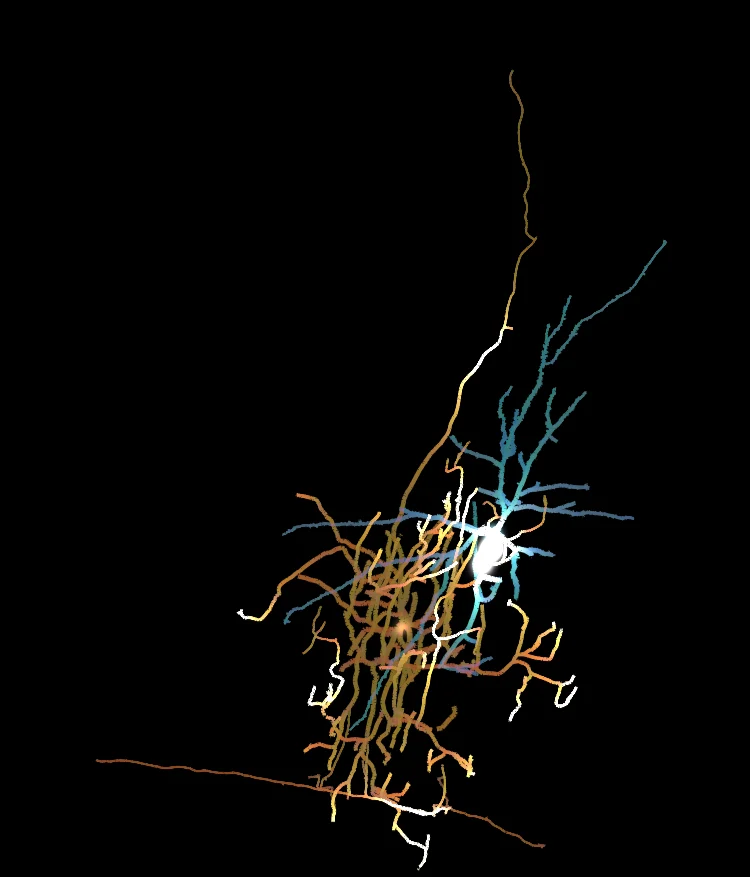
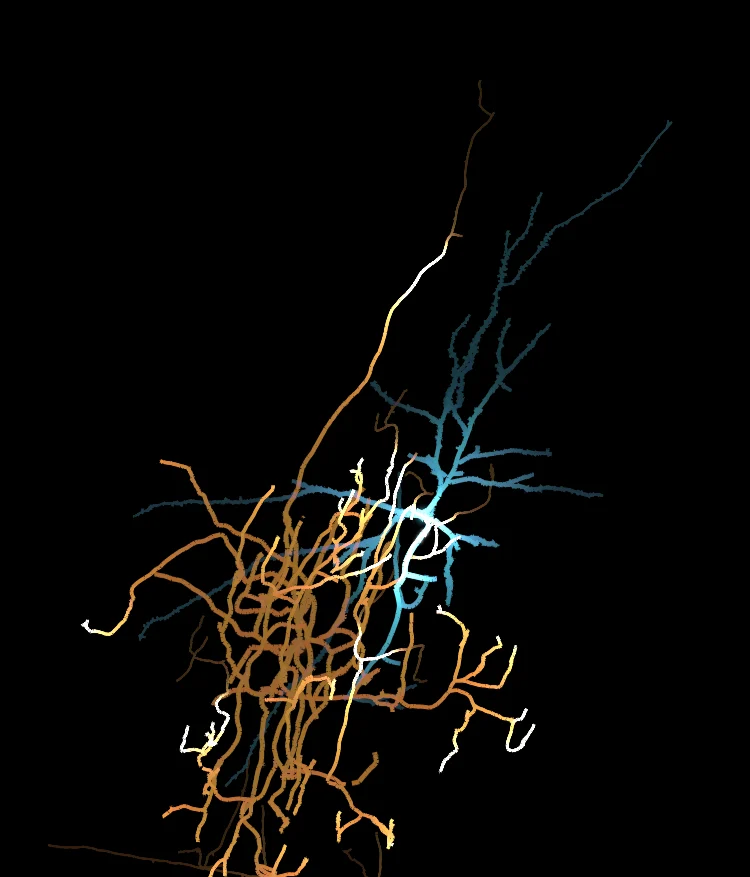
Teaching: tuned over critic rounds
A front-facing view that best separates the two cells, fitted to the receiver; the
way the signal goes reads first, other branches quieter; synapse dots flash one by one
at their real arrival times; arrival stays cyan; clear of the link home, the edge rule
and the heading on phones. The stream as a full band, amber to cyan with a short rose
middle, flowing one way, quieter over the cells.

diff --git a/src/stage/pair.js b/src/stage/pair.js
@@ -4,7 +4,7 @@
    stream behind them). They turn slowly together (cortex.js). Full-screen canvas fitted to its box. */
 import { program } from './gl.js';
 import { yaw, PROJECT_GLSL, fitNeuron } from './cortex.js';
-import { signalAt, SPEED } from './signal.js';
+import { signalAt, SPEED, viewYaw, pairBounds, pairBox } from './signal.js';
 
 const VS = `#version 300 es
 in vec2 aCorner; in vec3 iA; in vec3 iB; in float iDA; in float iDB; in float iT; in vec3 iDir; in float iCell;
@@ -23,39 +23,41 @@ void main(){
 const FS = `#version 300 es
 precision highp float;
 in float vD; in vec3 vDir; in float vSide; in float vTip; in float vCell;
-uniform float uF1, uF2, uSettle, uSpeed;
+uniform float uF1, uF2, uSettle, uSpeed, uDSyn, uBottom, uTop, uLeft, uPxF;
 out vec4 o;
 void main(){
   float edge = 1. - smoothstep(.55, 1., abs(vSide));
   float f = vCell > .5 ? uF2 : uF1, x = vD - f;
-  float head = f < 0. ? 0. : exp(-x*x/900.)*2.6 + exp(-x*x/8100.)*.7;      // the signal: a bright core in a soft bloom
+  float head = f < 0. ? 0. : (exp(-x*x/900.)*2.6 + exp(-x*x/8100.)*.7)*(vCell > .5 ? .5 : 1.);   // the signal: a bright core in a soft bloom; gentler arriving
   float lit = f >= 0. && x < 0. ? exp(x/(uSpeed*.4)) : 0.;                  // where it has just passed
   float tip = vTip > .9 && f >= 0. ? exp(-x*x/324.)*2. : 0.;
-  float I = .55 + head + .5*lit*uSettle + tip;
+  float onPath = vCell > .5 ? mix(1., .45, smoothstep(120., 220., vD)) : mix(1., .35, smoothstep(uDSyn + 20., uDSyn + 80., vD));   // the way the signal goes reads first
+  float I = (.6 + head + .5*lit*uSettle + tip)*onPath*smoothstep(uBottom - 70.*uPxF, uBottom + 10.*uPxF, gl_FragCoord.y)*(1. - smoothstep(uTop - 60.*uPxF, uTop, gl_FragCoord.y))*smoothstep(uLeft, uLeft + 24.*uPxF, gl_FragCoord.x);   // the long axon fades out before the words below and the link home above
   vec3 base = vCell > .5 ? vec3(.35, .82, 1.) : vec3(1., .62, .26);         // the first cell amber, the second cyan
-  vec3 col = mix(base, normalize(vDir + .1), .22);                          // a little of the brain's direction colours
-  col = mix(col, vec3(1., .97, .92), clamp((head + tip)*.4, 0., 1.)*.55);
+  vec3 col = mix(base, normalize(vDir + .1), .1);                           // a touch of the brain's direction colours
+  col = mix(col, vCell > .5 ? vec3(.5, .9, 1.) : vec3(1., .97, .92), clamp((head + tip)*.4, 0., 1.)*.55);   // arriving, it stays the second cell's cyan
   vec3 c = col*I*edge;
   o = vec4(c, max(c.r, max(c.g, c.b)));
 }`;
 // the synapses and the two cell bodies, as soft discs
 const DOT_VS = `#version 300 es
-in vec4 aDot;                                   // x y z, kind: 0 synapse, 1 first cell body, 2 second cell body
+in vec4 aDot; in float aT;                      // x y z, kind (0 synapse, 1 first cell body, 2 second); when the signal arrives (s)
 ${PROJECT_GLSL}
-uniform float uPx, uFlash, uGlow1, uGlow2;
+uniform float uPx, uPh, uGlow1, uGlow2;
 out float vK; out float vKind;
 void main(){
   gl_Position = cortex(aDot.xyz);
-  float k = aDot.w < .5 ? uFlash : aDot.w < 1.5 ? uGlow1 : uGlow2;
-  gl_PointSize = (aDot.w < .5 ? 7. + 16.*uFlash : 15.)*uPx; vK = k; vKind = aDot.w;
+  float flash = min(1.5, exp(-pow((uPh - aT)/.12, 2.))*1.5);   // each synapse when the signal reaches it, never more than 1.5
+  float k = aDot.w < .5 ? flash : aDot.w < 1.5 ? uGlow1 : uGlow2;
+  gl_PointSize = (aDot.w < .5 ? 3. + 3.*flash : 13.)*uPx; vK = k; vKind = aDot.w;
 }`;
 const DOT_FS = `#version 300 es
 precision highp float;
 in float vK; in float vKind; out vec4 o;
 void main(){
   vec2 q = gl_PointCoord*2. - 1.; float r = dot(q, q);
-  vec3 col = vKind < .5 ? vec3(1.) : vKind < 1.5 ? vec3(1., .78, .5) : vec3(.6, .9, 1.);
-  float a = exp(-r*4.)*(vKind < .5 ? .15 + 1.6*vK : .5 + 1.3*vK);
+  vec3 col = vKind < .5 ? vec3(1.) : vKind < 1.5 ? vec3(1., .78, .5) : vec3(.4, .85, 1.);
+  float a = exp(-r*4.)*(vKind < .5 ? .2 + vK : min(.95, .45 + .6*vK));
   vec3 c = col*a; o = vec4(c, max(c.r, max(c.g, c.b)));
 }`;
 
@@ -72,10 +74,11 @@ export function createPair(canvas, data, { preserve = false, box = canvas } = {}
     const l = pr.a(name); if (l < 0) continue; gl.enableVertexAttribArray(l); gl.vertexAttribPointer(l, size, gl.FLOAT, false, 56, off * 4); gl.vertexAttribDivisor(l, 1);
   }
   const dvao = gl.createVertexArray(); gl.bindVertexArray(dvao);
-  const D = [...j.synapses.map(p => [...p, 0]), [...j.somas[0], 1], [...j.somas[1], 2]].flat();
+  const D = [...j.synapses.map((p, i) => [...p, 0, (j.dEach ? j.dEach[i] : j.dSyn) / SPEED]), [...j.somas[0], 1, 0], [...j.somas[1], 2, 0]].flat();
   gl.bindBuffer(gl.ARRAY_BUFFER, gl.createBuffer()); gl.bufferData(gl.ARRAY_BUFFER, new Float32Array(D), gl.STATIC_DRAW);
-  const dl = dots.a('aDot'); gl.enableVertexAttribArray(dl); gl.vertexAttribPointer(dl, 4, gl.FLOAT, false, 0, 0);
+  const dl = dots.a('aDot'), tl = dots.a('aT'); gl.enableVertexAttribArray(dl); gl.vertexAttribPointer(dl, 4, gl.FLOAT, false, 20, 0); gl.enableVertexAttribArray(tl); gl.vertexAttribPointer(tl, 1, gl.FLOAT, false, 20, 16);
   gl.bindVertexArray(null);
+  const yaw0 = viewYaw(j.somas), bounds = pairBounds(data);   // the view that best separates the two cells, fitted to the second cell
   let vw = 0, vh = 0, sc = 1;
   const clear = () => { gl.viewport(0, 0, canvas.width, canvas.height); gl.clearColor(0, 0, 0, 0); gl.clear(gl.COLOR_BUFFER_BIT); };
   const cam = (u, fit, a) => { gl.uniform3f(u.uFit, fit.s, fit.cx, fit.cy); gl.uniform1f(u.uYaw, a); gl.uniform2f(u.uRes, canvas.width, canvas.height); gl.uniform1f(u.uPx, sc); };
@@ -89,15 +92,17 @@ export function createPair(canvas, data, { preserve = false, box = canvas } = {}
     },
     clear,
     draw(t, fixed = {}) {
-      const time = fixed.age != null ? fixed.age : t, a = fixed.yaw != null ? fixed.yaw : yaw(time), s = signalAt(time, j.dSyn, maxD);
-      const fit = fitNeuron(box.getBoundingClientRect(), sc, data.lo, data.hi);
+      const time = fixed.age != null ? fixed.age : t, a = yaw0 + (fixed.yaw != null ? fixed.yaw : yaw(time)), s = signalAt(time, j.dSyn, maxD);
+      const fit = fitNeuron(pairBox(box.getBoundingClientRect(), vw < 700), sc, bounds.lo, bounds.hi);
       clear(); gl.disable(gl.DEPTH_TEST); gl.enable(gl.BLEND); gl.blendFunc(gl.ONE, gl.ONE);
       gl.useProgram(pr.p); gl.bindVertexArray(vao); cam(pr.u, fit, a);
-      gl.uniform2f(pr.u.uMax, maxD[0], maxD[1]); gl.uniform1f(pr.u.uF1, s.front1); gl.uniform1f(pr.u.uF2, s.front2); gl.uniform1f(pr.u.uSettle, s.settle); gl.uniform1f(pr.u.uSpeed, SPEED);
+      gl.uniform2f(pr.u.uMax, maxD[0], maxD[1]); gl.uniform1f(pr.u.uF1, s.front1); gl.uniform1f(pr.u.uF2, s.front2); gl.uniform1f(pr.u.uSettle, s.settle); gl.uniform1f(pr.u.uSpeed, SPEED); gl.uniform1f(pr.u.uDSyn, j.dSyn);
+      const br = box.getBoundingClientRect(); gl.uniform1f(pr.u.uBottom, canvas.height - br.bottom * sc); const link = document.querySelector('.side-top .home-link'), lb = link ? link.getBoundingClientRect().bottom : br.top;
+      gl.uniform1f(pr.u.uTop, canvas.height - (lb + 40) * sc); gl.uniform1f(pr.u.uLeft, 24 * sc);   // gone 40 px below the link home; clear of the edge rule gl.uniform1f(pr.u.uPxF, sc);
       gl.blendEquation(gl.MAX); gl.drawArraysInstanced(gl.TRIANGLE_STRIP, 0, 4, data.nseg); gl.blendEquation(gl.FUNC_ADD);
       gl.useProgram(dots.p); gl.bindVertexArray(dvao); cam(dots.u, fit, a);
-      gl.uniform1f(dots.u.uFlash, s.flash); gl.uniform1f(dots.u.uGlow1, Math.exp(-s.ph * 3)); gl.uniform1f(dots.u.uGlow2, s.front2 < 0 ? 0 : Math.exp(-s.front2 / 120));
-      gl.drawArrays(gl.POINTS, 0, D.length / 4);
+      gl.uniform1f(dots.u.uPh, s.ph); gl.uniform1f(dots.u.uGlow1, Math.exp(-s.ph * 3)); gl.uniform1f(dots.u.uGlow2, s.front2 < 0 ? 0 : Math.exp(-s.front2 / 120));
+      gl.blendEquation(gl.MAX); gl.drawArrays(gl.POINTS, 0, D.length / 5); gl.blendEquation(gl.FUNC_ADD);
       gl.disable(gl.BLEND); gl.bindVertexArray(null);
     },
   };

diff --git a/src/stage/bg/stream.js b/src/stage/bg/stream.js
@@ -5,7 +5,7 @@
    across it), so it stays on the cells as the page scrolls and they turn. */
 import { program } from '../gl.js';
 import { yaw, project, fitNeuron } from '../cortex.js';
-import { signalAt } from '../signal.js';
+import { signalAt, viewYaw, pairBounds, pairBox } from '../signal.js';
 import { noise3 } from '../curl.js';
 import { WORDS } from './layer.js';
 
@@ -15,10 +15,14 @@ out float vA; out float vK;
 void main(){ vA = aA; vK = aK; gl_Position = vec4(aP/uRes*2. - 1., 0., 1.); }`;
 const FS = `#version 300 es
 precision highp float;
-in float vA; in float vK; uniform float uGain;
+in float vA; in float vK; uniform float uGain; uniform vec4 uCells;
 ${WORDS}
 out vec4 o;
-void main(){ vec3 col = mix(vec3(1., .62, .26), vec3(.35, .82, 1.), vK); vec3 c = col*vA*uGain*clearOfWords(); o = vec4(c, max(c.r, max(c.g, c.b))); }`;
+void main(){
+  vec3 col = vK < .4 ? vec3(1., .6, .22) : vK < .5 ? mix(vec3(1., .6, .22), vec3(1., .32, .62), (vK - .4)*10.) : vK < .6 ? mix(vec3(1., .32, .62), vec3(.3, .8, 1.), (vK - .5)*10.) : vec3(.3, .8, 1.);   // amber, a short rose middle, cyan
+  vec3 c = min(col*vA*uGain, col*.9)*clearOfWords()*mix(.3, 1., box(uCells, 30., 90.));   // quieter where it passes over the cells; never washed to white
+  o = vec4(c, max(c.r, max(c.g, c.b)));
+}`;
 
 const STEP = 1 / 60;
 
@@ -26,7 +30,7 @@ export function createStream(canvas, { lite = false, preserve = false } = {}, da
   const gl = canvas.getContext('webgl2', { alpha: true, premultipliedAlpha: true, antialias: true, preserveDrawingBuffer: preserve });
   if (!gl || !data) return null;
   const pr = program(gl, VS, FS); if (!pr) return null;
-  const j = data.json, N = lite ? 900 : 2200;
+  const j = data.json, N = lite ? 2700 : 6600, yaw0 = viewYaw(j.somas), bounds = pairBounds(data);
   const P = new Float32Array(N * 2), Q = new Float32Array(N * 2), L = new Float32Array(N);   // along/across (px of the stream), the step before, life
   const verts = new Float32Array(N * 2 * 4);
   const vao = gl.createVertexArray(), buf = gl.createBuffer(); gl.bindVertexArray(vao); gl.bindBuffer(gl.ARRAY_BUFFER, buf); gl.bufferData(gl.ARRAY_BUFFER, verts.byteLength, gl.DYNAMIC_DRAW);
@@ -34,16 +38,16 @@ export function createStream(canvas, { lite = false, preserve = false } = {}, da
   gl.bindVertexArray(null);
   let seed = 7; const rnd = () => { seed = (seed * 1664525 + 1013904223) >>> 0; return seed / 4294967296; };
   let half = 1000, simT = null, warmT = null;
-  const spawn = (i, anywhere) => { P[i * 2] = anywhere ? (rnd() * 2 - 1) * half : -half - rnd() * 60; P[i * 2 + 1] = (rnd() * 2 - 1) * 70 * (0.4 + 0.6 * rnd()); Q[i * 2] = P[i * 2]; Q[i * 2 + 1] = P[i * 2 + 1]; L[i] = 1; };
+  const spawn = (i, anywhere) => { P[i * 2] = anywhere ? (rnd() * 2 - 1) * half : -half - rnd() * 60; P[i * 2 + 1] = (rnd() * 2 - 1) * 140 * Math.sqrt(rnd()); Q[i * 2] = P[i * 2]; Q[i * 2 + 1] = P[i * 2 + 1]; L[i] = 1; };
   const reset = () => { seed = 7; for (let i = 0; i < N; i++) spawn(i, true); };
   // one step: drift along the line, swirled by the current; a little faster and fuller as the signal crosses
   const step = (t, boost) => {
-    const v = 2.2 * (1 + 1.2 * boost);
+    const v = 2.2 * (1 + 0.5 * boost);
     for (let i = 0; i < N; i++) {
       const x = P[i * 2], y = P[i * 2 + 1]; Q[i * 2] = x; Q[i * 2 + 1] = y;
       const f = 0.0045, z = t * 0.08, e = 0.5, n = (X, Y) => noise3(X * f, Y * f, z, 5);
       const sx = (n(x, y + e) - n(x, y - e)) / (2 * e), sy = -(n(x + e, y) - n(x - e, y)) / (2 * e);   // the curl of a 2D field: it swirls, never pools
-      P[i * 2] = x + v + sx * 260; P[i * 2 + 1] = y + sy * 260 - y * 0.004;        // gently held to the line
+      P[i * 2] = x + v + sx * 110; P[i * 2 + 1] = y + sy * 110 - y * 0.003;   // pushed along three times harder than it swirls: it meanders, never turns back        // gently held to the line
       if (P[i * 2] > half + 40) spawn(i, false);
     }
   };
@@ -56,7 +60,7 @@ export function createStream(canvas, { lite = false, preserve = false } = {}, da
     },
     clear,
     draw(t, v) {
-      const fit = fitNeuron(v.rect, v.scale, data.lo, data.hi), a = v.fixedYaw != null ? v.fixedYaw : yaw(t);
+      const fit = fitNeuron(pairBox(v.rect, canvas.clientWidth < 700), v.scale, bounds.lo, bounds.hi), a = yaw0 + (v.fixedYaw != null ? v.fixedYaw : yaw(t));
       const A = project(j.somas[0], a, fit), B = project(j.somas[1], a, fit);
       let ux = B[0] - A[0], uy = -(B[1] - A[1]); const n = Math.hypot(ux, uy) || 1; ux /= n; uy /= n;   // the line, bottom-left origin
       const mid = [(A[0] + B[0]) / 2, v.H - (A[1] + B[1]) / 2];
@@ -67,7 +71,7 @@ export function createStream(canvas, { lite = false, preserve = false } = {}, da
       const boost = sig(t), s = v.scale;
       for (let i = 0; i < N; i++) {
         const along = P[i * 2] / half, fade = Math.max(0, 1 - Math.abs(along) ** 4);
-        const kk = Math.min(1, Math.max(0, along * 0.5 + 0.5)), al = fade * (0.35 + 0.65 * boost);
+        const kk = Math.min(1, Math.max(0, along * 0.5 + 0.5)), al = fade * (lite ? 0.45 : 0.3) * (1 + 0.8 * boost) * (1 - Math.min(1, Math.abs(P[i * 2 + 1]) / 150) ** 2);
         for (const [w, src] of [[0, Q], [1, P]]) {
           const x = src[i * 2] * s, y = src[i * 2 + 1] * s, o = (i * 2 + w) * 4;
           const X = w ? x : P[i * 2] * s + (Q[i * 2] - P[i * 2]) * s * 7, Y = w ? y : P[i * 2 + 1] * s + (Q[i * 2 + 1] - P[i * 2 + 1]) * s * 7;   // a trail seven steps long
@@ -75,7 +79,9 @@ export function createStream(canvas, { lite = false, preserve = false } = {}, da
         }
       }
       clear(); gl.useProgram(pr.p); gl.bindVertexArray(vao); gl.bindBuffer(gl.ARRAY_BUFFER, buf); gl.bufferSubData(gl.ARRAY_BUFFER, 0, verts);
-      gl.uniform2f(pr.u.uRes, canvas.width, canvas.height); gl.uniform1f(pr.u.uGain, lite ? 1.2 : 1.0); gl.uniform4fv(pr.u.uText, v.text); gl.uniform4fv(pr.u.uNav, v.nav);
+      const C = [[bounds.lo[0], bounds.lo[1], 0], [bounds.hi[0], bounds.lo[1], 0], [bounds.lo[0], bounds.hi[1], 0], [bounds.hi[0], bounds.hi[1], 0]].map(p => project(p, a, fit));
+      gl.uniform4f(pr.u.uCells, Math.min(...C.map(c => c[0])), v.H - Math.max(...C.map(c => c[1])), Math.max(...C.map(c => c[0])), v.H - Math.min(...C.map(c => c[1])));
+      gl.uniform2f(pr.u.uRes, canvas.width, canvas.height); gl.uniform1f(pr.u.uGain, lite ? 2.6 : 2.2); gl.uniform4fv(pr.u.uText, v.text); gl.uniform4fv(pr.u.uNav, v.nav);
       gl.enable(gl.BLEND); gl.blendFunc(gl.ONE, gl.ONE); gl.drawArrays(gl.LINES, 0, N * 2); gl.disable(gl.BLEND); gl.bindVertexArray(null);
     },
   };

diff --git a/src/stage/signal.js b/src/stage/signal.js
@@ -13,3 +13,31 @@ export function signalAt(t, dSyn, max) {
   const settle = ph < tEnd ? 1 : Math.max(0, 1 - (ph - tEnd) / 1.5);
   return { ph, tSyn, front1, front2, flash, settle };
 }
+
+// the turn (from the front) that shows the two cell bodies furthest apart on screen: a choice of view only, the cells stay as they are
+import { project } from './cortex.js';
+export function viewYaw(somas) {
+  const fit = { s: 1, cx: 0, cy: 0 };
+  let best = 0, far = -1;
+  for (let i = 0; i <= 160; i++) {                                   // front-facing views only (no mirror from behind)
+    const a = -1.4 + i * 2.8 / 160, p = project(somas[0], a, fit), q = project(somas[1], a, fit), d = Math.hypot(p[0] - q[0], p[1] - q[1]);
+    if (d > far) { far = d; best = a; }
+  }
+  return best;
+}
+
+// what the view is fitted to: the second cell and both cell bodies; the first cell's long axon may run on past the box
+export function pairBounds(data) {
+  const lo = [Infinity, Infinity, Infinity], hi = [-Infinity, -Infinity, -Infinity], g = data.seg;
+  const take = p => { for (let k = 0; k < 3; k++) { if (p[k] < lo[k]) lo[k] = p[k]; if (p[k] > hi[k]) hi[k] = p[k]; } };
+  for (let i = 0; i < data.nseg; i++) if (g[i * 14 + 13] > 0.5) { take([g[i * 14], g[i * 14 + 1], g[i * 14 + 2]]); take([g[i * 14 + 3], g[i * 14 + 4], g[i * 14 + 5]]); }
+  data.json.somas.forEach(take);
+  return { lo, hi };
+}
+
+// the box the two cells are fitted to: on a narrow screen a little inside the art's own box, clear of the edge rule
+// and the heading below (window pixels)
+export function pairBox(r, narrow) {
+  if (!narrow) return r;
+  return { left: r.left + r.width * 0.075 + 12, top: r.top + r.height * 0.04, width: r.width * 0.85 - 12, height: r.height * 0.85 };
+}

diff --git a/tests/unit/signal.test.js b/tests/unit/signal.test.js
@@ -1,5 +1,6 @@
 import { describe, it, expect } from 'vitest';
-import { CYCLE, SPEED, signalAt } from '../../src/stage/signal.js';
+import { CYCLE, SPEED, signalAt, viewYaw } from '../../src/stage/signal.js';
+import { project } from '../../src/stage/cortex.js';
 
 describe('the signal from one cell to the other', () => {
   const dSyn = 404, max = [853, 548], tSyn = dSyn / SPEED;
@@ -17,5 +18,16 @@ describe('the signal from one cell to the other', () => {
   it('starts again every cycle', () => {
     const a = signalAt(0.3, dSyn, max), b = signalAt(0.3 + CYCLE, dSyn, max);
     expect(b.front1).toBeCloseTo(a.front1, 6); expect(b.front2).toBeCloseTo(a.front2, 6);
+  });
+});
+
+describe('the view of the two cells', () => {
+  it('turns to where their cell bodies sit furthest apart on screen', () => {
+    const somas = [[0, 0, -100], [0, 0, 100]];                       // one behind the other: apart only once turned
+    const a = viewYaw(somas), fit = { s: 1, cx: 0, cy: 0 };
+    const sep = y => { const p = project(somas[0], y, fit), q = project(somas[1], y, fit); return Math.hypot(p[0] - q[0], p[1] - q[1]); };
+    expect(sep(a)).toBeGreaterThan(sep(0) + 150);
+    for (let y = -1.4; y <= 1.4; y += 0.1) expect(sep(a)).toBeGreaterThanOrEqual(sep(y) - 1);
+    expect(Math.abs(a)).toBeLessThanOrEqual(1.4);                  // seen from the front, never mirrored
   });
 });

diff --git a/prep/prep_pair.py b/prep/prep_pair.py
@@ -82,10 +82,11 @@ def main(swc_dir, partner_json, out):
     # how far along the sender the synapses are: its distance at the node nearest each synapse
     from scipy.spatial import cKDTree
     Pt = np.vstack([f["P"] for f in sender]); Dt = np.concatenate(d_s)
-    d_syn = float(np.median(Dt[cKDTree(Pt).query(turn(np.array([s["pre"] for s in pj["synapses"]])))[1]]))
+    d_each = Dt[cKDTree(Pt).query(turn(np.array([s["pre"] for s in pj["synapses"]])))[1]]   # each synapse's distance along the sender
+    d_syn = float(np.median(d_each))
     meta = {"pre": SENDER, "post": str(pj["post"]), "rot": R.round(6).tolist(),
             "somas": [soma_s_t.round(2).tolist(), soma_p_t.round(2).tolist()], "synapses": syn_t.round(2).tolist(),
-            "dSyn": round(d_syn, 1), "maxDist": [round(float(max(d.max() for d in d_s)), 1), round(float(max(d.max() for d in d_p)), 1)],
+            "dSyn": round(d_syn, 1), "dEach": np.round(d_each, 1).tolist(), "maxDist": [round(float(max(d.max() for d in d_s)), 1), round(float(max(d.max() for d in d_p)), 1)],
             "source": "H01 (Shapson-Coe et al., Science 2024): proofread cell 1900905433, c3 cell 1332939895 and the c3 synapses between them, CC BY 4.0"}
     for step, name in ((2.0, "pair"), (4.0, "pair-lite")):
         write(out, name, [build(sender, d_s, step), build(partner, d_p, step)], meta)
